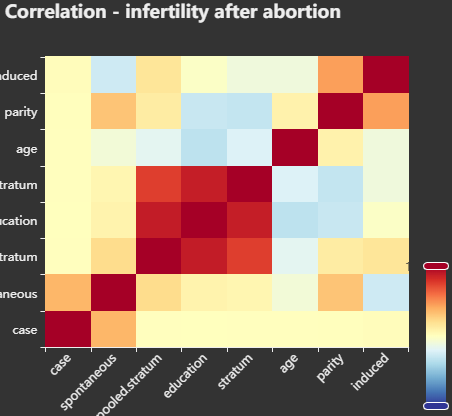
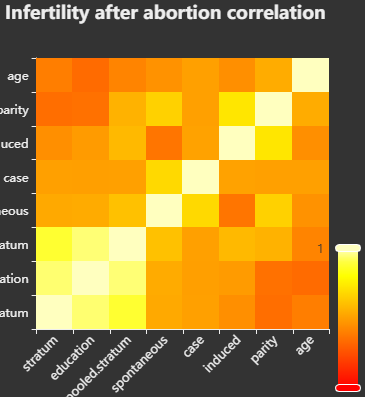
comply with v.1.4.0

diff --git a/gallery.md b/gallery.md
@@ -15,8 +15,7 @@ df <- data.frame(date=as.character(as.Date('2019-12-31') %m+% months(1:13)),
                  num=runif(13))
 
 #  with presets and df chained
-p <- df %>% ec.init(group1='bar') %>% ec.theme('dark')
-p$x$opts$xAxis <- list(type = 'category')
+p <- df %>% ec.init(ctype='bar') %>% ec.theme('dark')
 p
 
 #  without presets all options are explicitly assigned
@@ -92,12 +91,11 @@ p
 
 ```r
 p <- iris %>% group_by(Species) %>% 
-  ec.init(group1='parallel') %>% ec.theme('dark-mushroom')
+  ec.init(ctype='parallel') %>% ec.theme('dark-mushroom')
 p$x$opts$series <- lapply(p$x$opts$series, function(x) { 
   x$smooth=TRUE; x$lineStyle=list(width=3); x })  # update preset series
 p$x$opts$color <- rainbow(10)
 p
-# note: parallel presets are coming after v.0.3.2
 ```
 </details>
 <br />
@@ -136,8 +134,8 @@ ritem <- "function renderItem(params, api) {
 p <- ec.init() %>% ec.theme('dark-mushroom')      # only 2 commands used
 p$x$opts <- list(
     title = list(text = "Profit", left = "center"),
-    tooltip = list(ey = ""),
-    xAxis = list(scale = TRUE), yAxis = list(ey = ""),
+    tooltip = list(zz = ""),
+    xAxis = list(scale = TRUE), yAxis = list(zz = ""),
     series = list(list(type = "custom",
          renderItem = htmlwidgets::JS(ritem),
          label = list(show = TRUE, position = "top"),
@@ -174,7 +172,7 @@ stackbar <- stackbar %>% mutate(xlbl=paste0(Year,' (N=',all,')'))
 stackbar <- stackbar %>% relocate(xlbl,perc)  # move in front as natural X & Y columns
 stackbar <- stackbar %>% group_by(Category)   # both ec.init & ecr.ebars need grouped data
 #  --- 2. plot
-q <- stackbar %>% ec.init(group1='bar', load='custom') %>%
+q <- stackbar %>% ec.init(ctype='bar', load='custom') %>%
      ec.theme('dark-mushroom') %>%
      ecr.ebars(stackbar[,c('xlbl','low','up','Category')],    # only columns for x,low,high,category
                hwidth = 9)    # (optional) half-width of err.bar in pixels
@@ -235,7 +233,7 @@ p
 # echarty can highlight 3D points selected by external controls
 library(crosstalk); library(DT); library(d3scatter); library(htmltools)
 library(echarty); library(dplyr); library(tibble)
-sdf <- mtcars %>% rownames_to_column(var='name') %>% relocate(mpg,wt) 
+sdf <- mtcars %>% rownames_to_column(var='name') %>% relocate(mpg,wt,hp) 
 sdf <- SharedData$new(sdf)
 
 p3 <- sdf %>% ec.init(load='3D', 
@@ -243,15 +241,10 @@ p3 <- sdf %>% ec.init(load='3D',
             ec.theme('dark-mushroom')
 p3$x$opts$series[[1]] <- list(
   type='scatter3D', symbolSize=11,
-  encode=list(x='mpg', y='wt', z='hp'),
   itemStyle=list(color = htmlwidgets::JS("function(params){
-    let cyl=params.value[3]; return (cyl==4 ? 'RoyalBlue' : cyl==6 ? 'OrangeRed':'green');}") ),
-  emphasis = list(focus='self', blurScope='series', itemStyle=list(color='red')),
-  blur = list(opacity = 0.2)
+    let cyl=params.value[4]; return (cyl==4 ? 'RoyalBlue' : cyl==6 ? 'OrangeRed':'green');}") ),
+  emphasis = list(focus='self', blurScope='series', itemStyle=list(color='red'))
 )
-p3$x$opts$xAxis3D <- list(name='mpg')
-p3$x$opts$yAxis3D <- list(name='wt')
-p3$x$opts$zAxis3D <- list(name='hp')
 
 bscols( list(
     d3scatter(sdf, ~mpg, ~wt, ~factor(cyl), width="100%", height=300),br(),
@@ -294,8 +287,8 @@ for(i in 0:1)
 	))
 p <- ec.init(load='3D', preset=FALSE)  %>% ec.theme('dark-mushroom') 
 p$x$opts <- list(
-  xAxis = list(ey=''),	  # scatterGL is not 3D, needs 2D axes
-  yAxis = list(ey=''),
+  xAxis = list(zz=''),	  # scatterGL is not 3D, needs 2D axes
+  yAxis = list(zz=''),
   series = sers,
   dataZoom = list(type='inside',start=50)
 )
@@ -433,20 +426,17 @@ using heatmap chart
 library(echarty); library(dplyr)
 # prepare and calculate data
 mtx <- cor(infert %>% dplyr::mutate(education=as.numeric(education)))
-order <- corrplot::corrmatOrder(mtx)
+order <- corrplot::corrMatOrder(mtx)
 mtx <- mtx[order, order]
 df <- as.data.frame(as.table(mtx))
 for(i in 1:2) df[,i] <- as.character(df[,i])
 
-p <- ec.init(preset=FALSE) %>% ec.theme('dark')
-p$x$opts <- list( 
-  title = list(text='Correlation - infertility after abortion'),
-  xAxis = list(type='category', data=unique(colnames(mtx)), axisLabel=list(rotate=45)),
-  yAxis = list(type='category', data=unique(colnames(mtx))),
-  series = list(list(type = 'heatmap', data= ec.data(df,'values') )),
-  visualMap = list(min=-1, max=1, calculable=TRUE, orient='vertical',left='right'
-    ,inRange=list( color=c('#313695', '#4575b4', '#74add1', '#abd9e9', '#e0f3f8', '#ffffbf', '#fee090', '#fdae61', '#f46d43', '#d73027', '#a50026')) )
-)
+# ECharts heatmap expects dataset columns in a certain order: relocate
+p <- df %>% relocate(Var2) %>% ec.init(ctype='heatmap') %>% ec.theme('dark')
+p$x$opts$title = list(text='Infertility after abortion correlation')
+p$x$opts$xAxis$axisLabel <- list(rotate=45)
+p$x$opts$visualMap <- list(min=-1, max=1, orient='vertical',left='right'
+  ,calculable=TRUE, inRange=list( color=heat.colors(11)) )
 p
 ```
 </details>
@@ -465,12 +455,12 @@ do.histogram <- function(x, breaks='Sturges') {
   tmp <- data.frame(x=histo$mids, y=histo$counts)
   tmp
 }
-p <- do.histogram(rnorm(44)) %>% ec.init(group1='bar') %>% ec.theme('dark')
+p <- do.histogram(rnorm(44)) %>% ec.init(ctype='bar') %>% ec.theme('dark')
 p
 
 # with normal distribution line added
 hh <- do.histogram(rnorm(44))
-p <- hh %>% ec.init(group1='bar') %>% ec.theme('dark')
+p <- hh %>% ec.init(ctype='bar') %>% ec.theme('dark')
 nrm <- dnorm(hh$x, mean=mean(hh$x), sd=sd(hh$x))  # normal distribution
 p$x$opts$xAxis <- list(list(ii=''), list(data=c(1:length(nrm))))
 p$x$opts$yAxis <- list(list(ii=''), list(ii=''))
@@ -528,7 +518,7 @@ p$x$opts <- list(
       list(name = x$tic, lname=x$name, value=x$bn, 
            symbolSize=x$size, draggable=TRUE 
       )) )),
-  tooltip = list(formatter= ec.clmn('<b>%s</b><br>%s bn','lname','value'))
+  tooltip = list(formatter= ec.clmn('<b>%@</b><br>%@ bn','lname','value'))
 )
 p
 ```
@@ -608,15 +598,15 @@ p$x$on <- list(list(event='mouseover', query=list(seriesIndex=0),
   this.dispatchAction({ type: 'downplay', geoIndex: 0, name: event.name }); }") )
 )
 p$x$opts <- list(
-  tooltip = list(ey = ""), 
+  tooltip = list(zz = ""), 
   geo = list(left = 10, right = "50%", map = "organs", selectedMode = "multiple",
              emphasis = list(focus = "self", itemStyle = list(color = NULL), 
                              label = list(position = "bottom", distance = 0, textBorderColor = "#fff", textBorderWidth = 2)),
-             blur = list(ey = ""), 
+             blur = list(zz = ""), 
              select = list(itemStyle = list(color = "#b50205"), 
                            label = list(show = FALSE, textBorderColor = "#fff", textBorderWidth = 2))), 
   grid = list(left = "60%", top = "20%", bottom = "20%"), 
-  xAxis = list(ey = ""), 
+  xAxis = list(zz = ""), 
   yAxis = list(data = list("heart", "large-intestine", "small-intestine", "spleen", "kidney", "lung", "liver")), 
   series = list(list(type = "bar", emphasis = list(focus = "self"), 
                      data = list(121, 321, 141, 52, 198, 289, 139))))
@@ -636,7 +626,7 @@ p
 # inspired by data from https://github.com/etiennebacher
 library(echarty); library(dplyr)
 flights <- read.csv('https://raw.githubusercontent.com/plotly/datasets/master/2011_february_aa_flight_paths.csv')
-# rearrange longitude/latitude data for ECharts
+# set first two columns to longitude/latitude as default for ECharts
 df <- head(flights) %>% relocate(start_lon,start_lat,end_lon) %>% 
   group_by(airport1) %>% group_split()
 # timeline options are individual charts
@@ -658,7 +648,7 @@ options <-  lapply(df, function(y) {
 })
 
 p <- ec.init(preset=FALSE, load='world')
-p$x$opts$yAxis <- list(ey='')
+p$x$opts$yAxis <- list(zz='')
 p$x$opts$xAxis$type <- 'category'
 # timeline labels need to match option titles
 p$x$opts$timeline <- list(data=unlist(lapply(options, 

diff --git a/uc6.md b/uc6.md
@@ -31,7 +31,6 @@ options <-  lapply(vv %>% group_by(Year) %>% group_split(), function(y) {
 })
 
 p <- vv %>% group_by(name) %>% ec.init()
-p$x$opts$xAxis$type <- 'category'
 p$x$opts$timeline <- list(data=unique(vv$Year), axisType='category')
 p$x$opts$options <- options
 p
